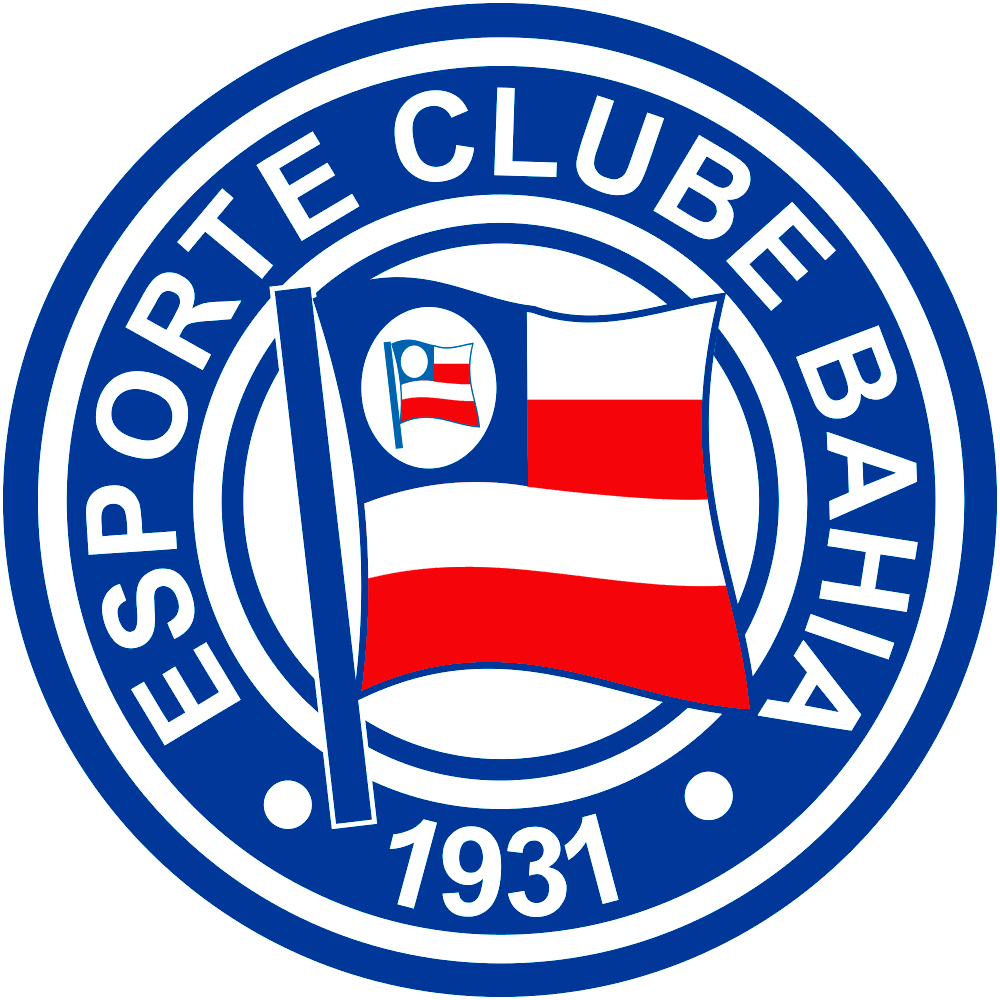
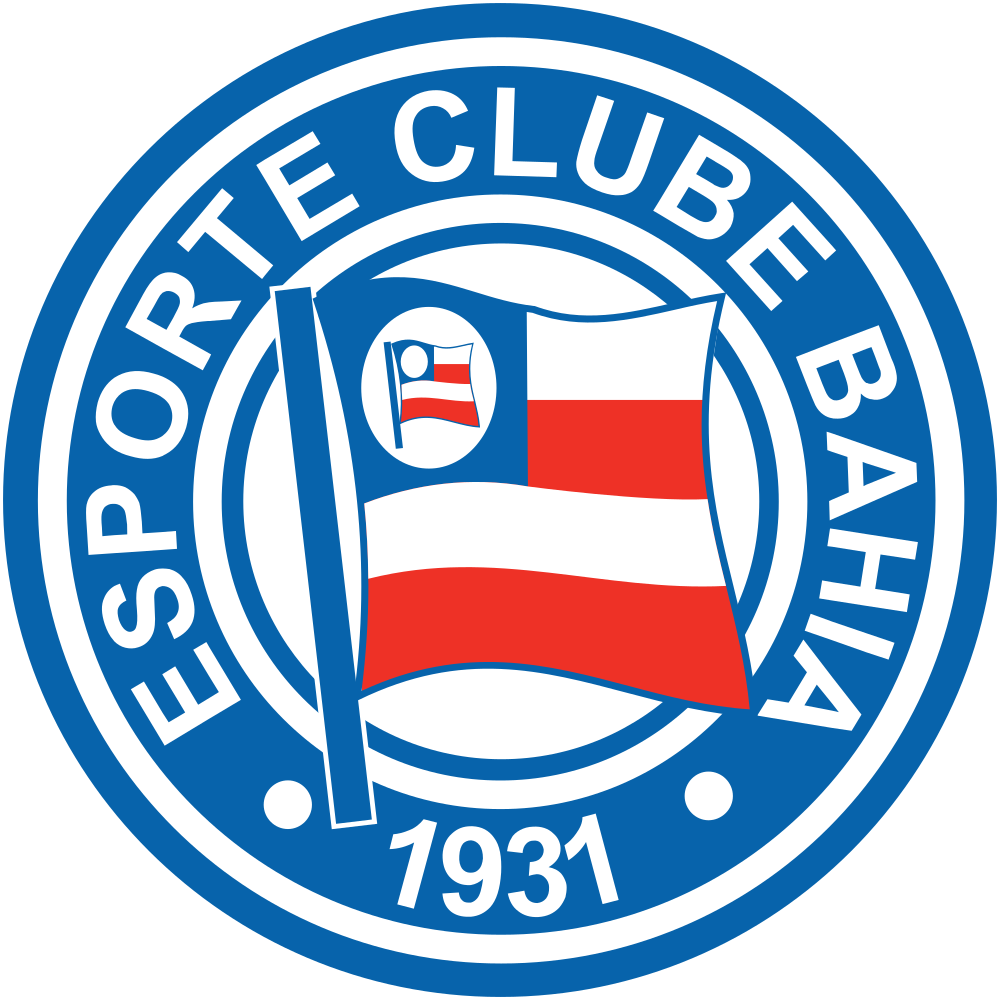
atualizando cores e escudo do bahia

diff --git a/src/Times.js b/src/Times.js
@@ -198,7 +198,7 @@ function Times(time, data) {
             case "Bahia":
                   nomeAtual = time;
                   escudo = time;
-                  backgroundColor = "#003a94";
+                  backgroundColor = "#0188d6";
                   letterColor = "white";
                   break;
             case "Banfield":
